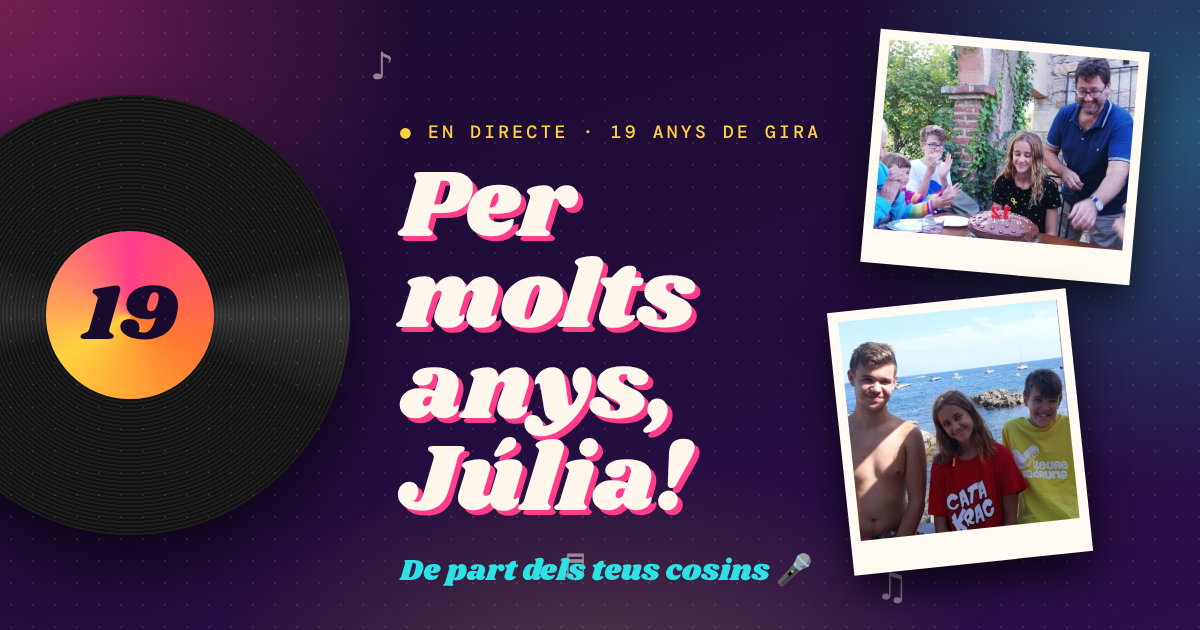
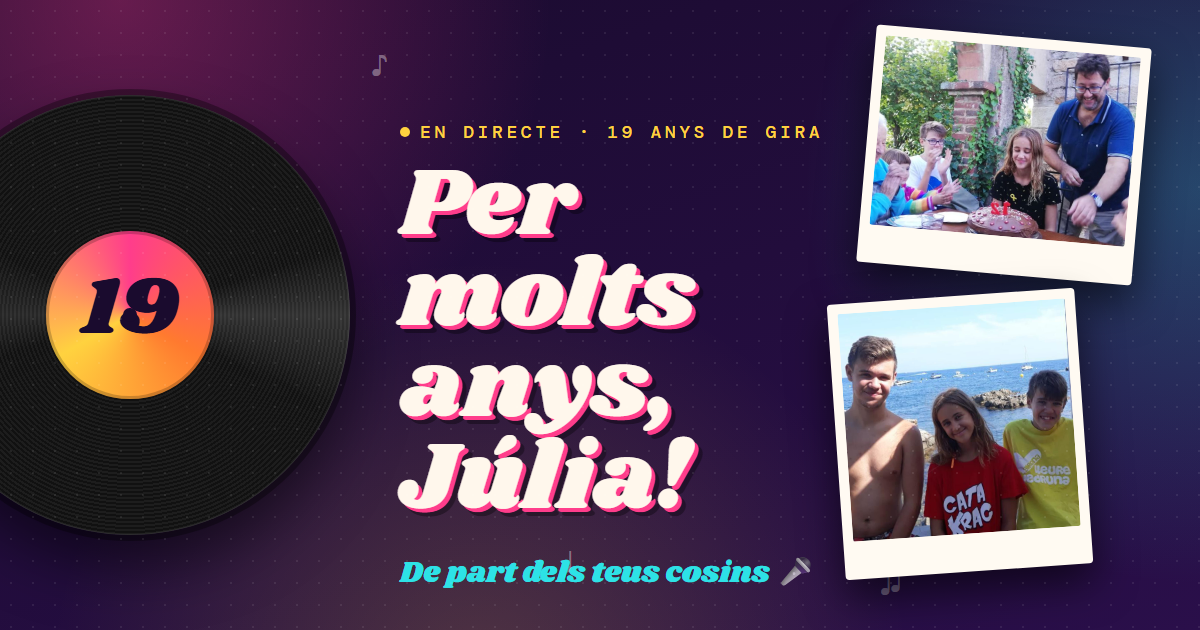
feat: og/og.html y npm run og para regenerar public/og.png con Playwright

diff --git a/og/og.html b/og/og.html
@@ -1,0 +1,221 @@
+<!doctype html>
+<html lang="ca">
+  <head>
+    <meta charset="utf-8" />
+    <title>OG · Per molts anys, Júlia!</title>
+    <!-- Fuente de public/og.png. Renderizar con: npm run og (Playwright, 1200×630) -->
+    <style>
+      @font-face {
+        font-family: 'Shrikhand';
+        src: url('../node_modules/@fontsource/shrikhand/files/shrikhand-latin-400-normal.woff2') format('woff2');
+      }
+      @font-face {
+        font-family: 'DM Mono';
+        font-weight: 500;
+        src: url('../node_modules/@fontsource/dm-mono/files/dm-mono-latin-500-normal.woff2') format('woff2');
+      }
+      :root {
+        --bg: #1a0b2e;
+        --bg2: #2a0f4a;
+        --pink: #ff3d8b;
+        --yellow: #ffd23f;
+        --cyan: #2de2e6;
+        --orange: #ff7a2f;
+        --ink: #fff7ec;
+        --display: 'Shrikhand', Georgia, serif;
+        --mono: 'DM Mono', ui-monospace, monospace;
+      }
+      * {
+        box-sizing: border-box;
+        margin: 0;
+        padding: 0;
+      }
+      html,
+      body {
+        width: 1200px;
+        height: 630px;
+        overflow: hidden;
+        background: var(--bg);
+        color: var(--ink);
+      }
+      .stage {
+        position: relative;
+        width: 1200px;
+        height: 630px;
+        overflow: hidden;
+        background:
+          radial-gradient(720px 720px at 10% 0%, #ff3d8b55, transparent 60%),
+          radial-gradient(660px 660px at 100% 30%, #2de2e644, transparent 60%),
+          radial-gradient(720px 720px at 40% 110%, #ffd23f33, transparent 60%),
+          linear-gradient(160deg, var(--bg), var(--bg2));
+      }
+      .stage::after {
+        content: '';
+        position: absolute;
+        inset: 0;
+        background-image: radial-gradient(#ffffff14 1px, transparent 1.5px);
+        background-size: 22px 22px;
+      }
+      .note {
+        position: absolute;
+        font-size: 30px;
+        color: #fff;
+        opacity: 0.35;
+      }
+
+      /* vinilo */
+      .vinyl {
+        position: absolute;
+        left: -90px;
+        top: 95px;
+        width: 440px;
+        height: 440px;
+        border-radius: 50%;
+        background: repeating-radial-gradient(circle at 50% 50%, #111 0 2px, #1d1d1d 2px 4px);
+        box-shadow:
+          0 0 0 6px #0005,
+          0 30px 60px #0008,
+          inset 0 0 0 1px #fff1;
+      }
+      .vinyl::before {
+        content: '';
+        position: absolute;
+        inset: 0;
+        border-radius: 50%;
+        background: conic-gradient(
+          from 0deg,
+          transparent 0 20%,
+          #ffffff22 25%,
+          transparent 32% 70%,
+          #ffffff18 75%,
+          transparent 82%
+        );
+      }
+      .label {
+        position: absolute;
+        inset: 31%;
+        border-radius: 50%;
+        background: conic-gradient(var(--pink), var(--orange), var(--yellow), var(--pink));
+        display: grid;
+        place-items: center;
+        font-family: var(--display);
+        font-size: 82px;
+        color: var(--bg);
+        box-shadow: inset 0 0 0 3px #0003;
+      }
+      .label::after {
+        content: '';
+        position: absolute;
+        width: 8%;
+        aspect-ratio: 1;
+        border-radius: 50%;
+        background: var(--bg);
+      }
+      .label span {
+        transform: translateY(-6%);
+      }
+
+      /* texto */
+      .txt {
+        position: absolute;
+        left: 400px;
+        top: 0;
+        width: 340px;
+      }
+      .kicker {
+        position: absolute;
+        top: 120px;
+        left: 0;
+        white-space: nowrap;
+        font-family: var(--mono);
+        font-size: 18px;
+        letter-spacing: 0.2em;
+        text-transform: uppercase;
+        color: var(--yellow);
+        display: inline-flex;
+        align-items: center;
+        gap: 10px;
+      }
+      .kicker::before {
+        content: '';
+        width: 10px;
+        height: 10px;
+        border-radius: 50%;
+        background: var(--yellow);
+      }
+      h1 {
+        position: absolute;
+        top: 160px;
+        left: 0;
+        width: 340px;
+        font-family: var(--display);
+        font-weight: 400;
+        font-size: 96px;
+        line-height: 0.95;
+        text-shadow:
+          4px 4px 0 var(--pink),
+          8px 8px 0 #00000055;
+      }
+      .sign {
+        position: absolute;
+        top: 550px;
+        left: 0;
+        white-space: nowrap;
+        font-family: var(--display);
+        font-size: 30px;
+        color: var(--cyan);
+      }
+
+      /* polaroids */
+      .polaroid {
+        position: absolute;
+        background: #fffaf2;
+        padding: 10px 10px 38px;
+        border-radius: 4px;
+        box-shadow: 0 18px 40px #0009;
+      }
+      .polaroid img {
+        display: block;
+        width: 100%;
+        height: 100%;
+        object-fit: cover;
+        border-radius: 2px;
+      }
+      .p1 {
+        left: 866px;
+        top: 36px;
+        width: 276px;
+        height: 238px;
+        transform: rotate(5deg);
+      }
+      .p2 {
+        left: 836px;
+        top: 296px;
+        width: 248px;
+        height: 276px;
+        transform: rotate(-4deg);
+      }
+      .p1 img {
+        object-position: 62% 50%;
+      }
+    </style>
+  </head>
+  <body>
+    <div class="stage">
+      <span class="note" style="left: 372px; top: 48px">♪</span>
+      <span class="note" style="left: 562px; top: 540px">♩</span>
+      <span class="note" style="left: 880px; top: 566px">♫</span>
+
+      <div class="vinyl"><div class="label"><span>19</span></div></div>
+
+      <div class="txt">
+        <span class="kicker">En directe · 19 anys de gira</span>
+        <h1>Per molts anys, Júlia!</h1>
+        <p class="sign">De part dels teus cosins 🎤</p>
+      </div>
+
+      <div class="polaroid p1"><img src="../public/img/foto-07.jpg" alt="" /></div>
+      <div class="polaroid p2"><img src="../public/img/foto-09.jpg" alt="" /></div>
+    </div>
+  </body>
+</html>
